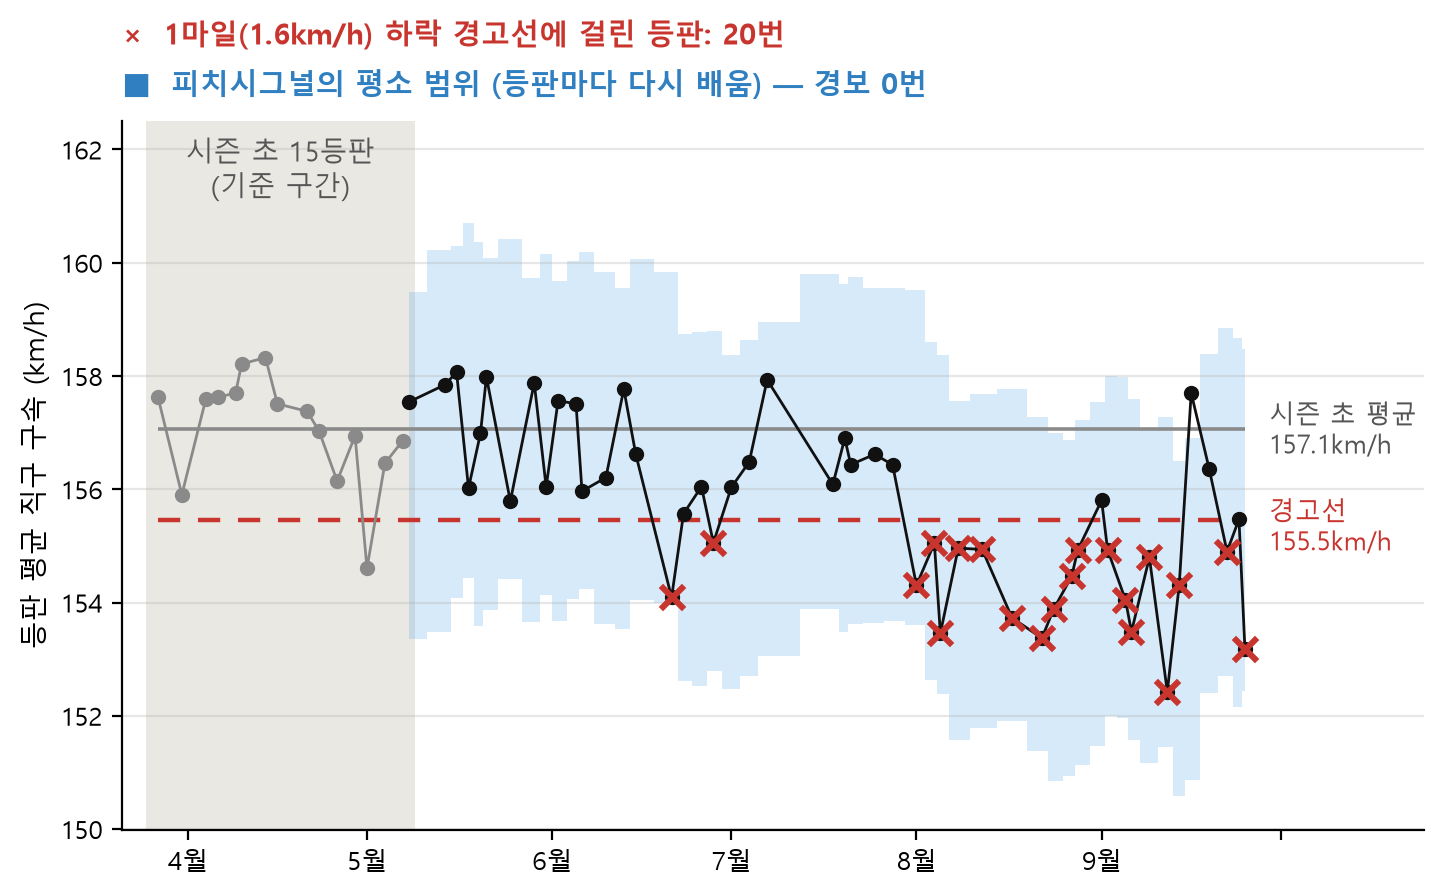
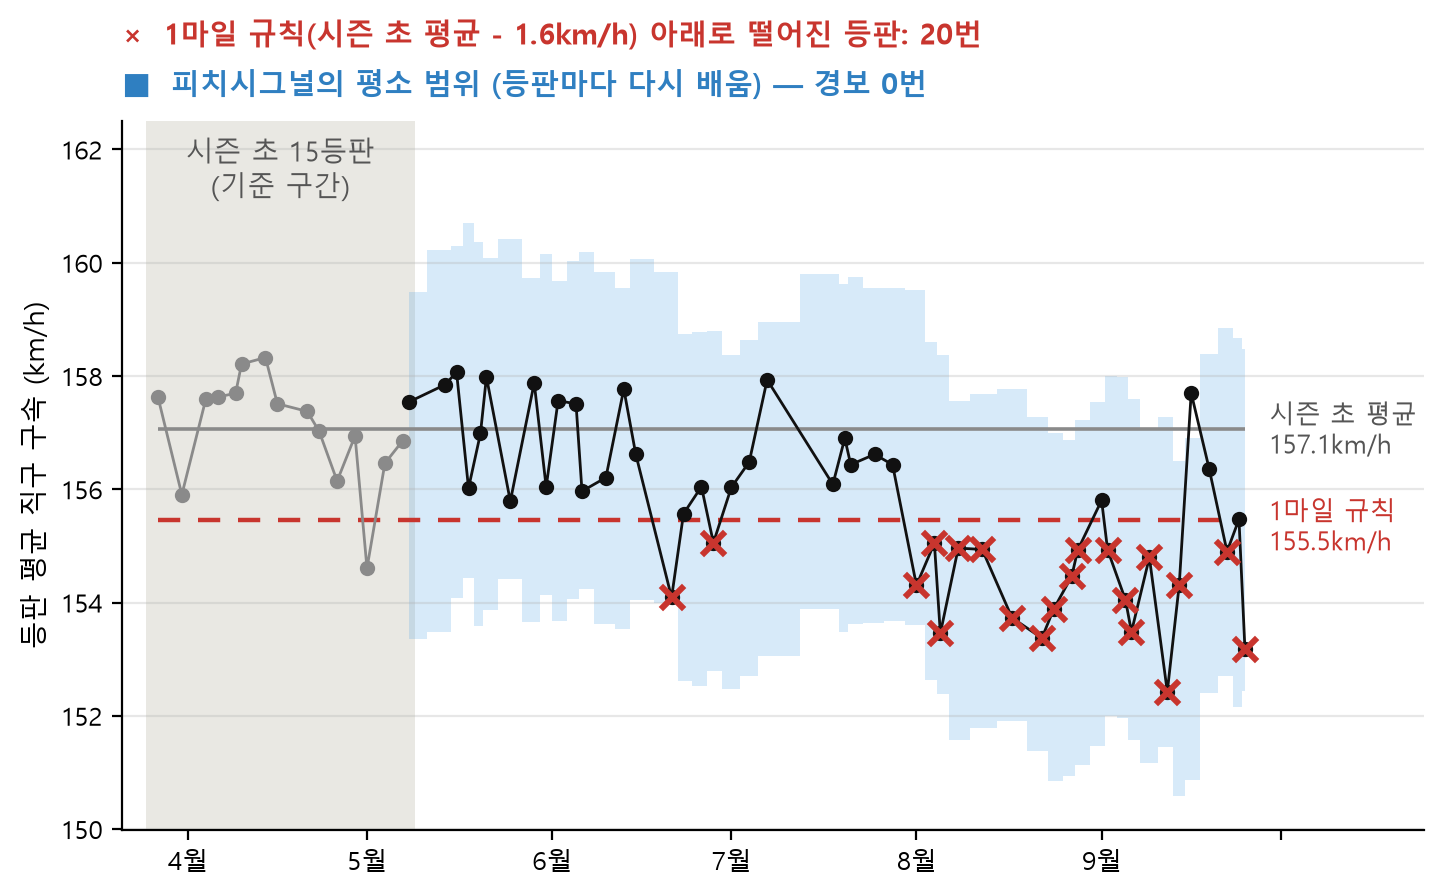
발표자료 2차 수정: 규정의 한계(두 단계 기준·10명 그림), 이용자 문구, 원자료 그대로(엑셀 캡처·확대 표), 1마일 규칙과 다른 점 표, 오경보 허용-탐지 그래프와 카드 2장, 쓰임새 6줄, 2026 전국체전 달력 백업

Changed region(s): [[0.1558, 0.0, 0.6856, 0.0603], [0.8726, 0.543, 0.9661, 0.6034]]

diff --git a/tools/deck_revise_1024.py b/tools/deck_revise_1024.py
@@ -1,0 +1,199 @@
+"""발표자료 2차 수정 (2026-10-24, 사용자와 10장을 다시 본 뒤 한 번에 — 메모 C:/work/private/pitchsignal/발표_수정메모_2차.md).
+1차 수정과 영상 삽입이 끝난 제출물 파일을 그대로 열어 고친다 (영상·포함 글꼴은 python-pptx가 그대로 보존하고, 글꼴은 build_deck.finalize가 다시 포함).
+    python -m tools.deck_revise_1024 <입력.pptx> <출력.pptx>
+먼저 만들어 둘 그림: tools.deck_assets(false_alarm_case·people_row·opcurve), tools.deck_pitch_data(raw csv·raw_zoom·scatter) + 엑셀 캡처(raw_excel.png), 2026 전국체전 달력(tour_2026.png).
+"""
+from __future__ import annotations
+
+import sys
+
+from pptx import Presentation
+from pptx.enum.shapes import MSO_SHAPE
+from pptx.enum.text import MSO_ANCHOR, PP_ALIGN
+
+from tools import build_deck as bd
+from tools.deck_revise_1023 import card, drop, set_text, shape, title
+
+DECK, PRIVATE = bd.DECK, bd.PRIVATE / "deck"
+NAVY = bd.RGBColor(0x1F, 0x4E, 0x8C)
+
+
+def set_lines(sh, lines):
+    """문단마다 첫 조각 서식을 살려 글만 바꾼다 (문단 수는 lines에 맞춤)."""
+    tf = sh.text_frame
+    for p in tf.paragraphs[len(lines):]:
+        p._p.getparent().remove(p._p)
+    for p, t in zip(tf.paragraphs, lines):
+        for r in p.runs[1:]:
+            r._r.getparent().remove(r._r)
+        p.runs[0].text = t
+
+
+def _flat(slide, kind, x, y, w, h, color):
+    shp = slide.shapes.add_shape(kind, bd.Inches(x), bd.Inches(y), bd.Inches(w), bd.Inches(h))
+    shp.fill.solid(); shp.fill.fore_color.rgb = color; shp.line.fill.background(); shp.shadow.inherit = False
+    return shp
+
+
+def rule(slide, x, y, w, color=bd.SOFT):
+    _flat(slide, MSO_SHAPE.RECTANGLE, x, y, w, 0.012, color)
+
+
+def s1(s):
+    set_lines(shape(s, 7), ["고교부터 프로까지,", "투수의 누적 부하와 부상 위험 신호를 알려 줍니다"])     # '혹사'는 2쪽과 같이 쓰지 않음
+    set_text(shape(s, 11), "2026년 한 고교 투수가 29번 등판해 던진 공")
+
+
+def s2(s):
+    title(s, "규정의 한계")
+    drop(s, 6, 7, 8, 9, 10, 11, 12, 14, 15)
+    for x, head, body in ((0.6, "지금 규정 (대한야구소프트볼협회)", "하루 105구 · 공 수에 따라 의무 휴식 1~4일 · 3일 연속 등판 금지"),
+                          (6.78, "규정이 못 보는 것: 며칠에 걸쳐 쌓이는 양", "2026 전국체전 우승팀 투수 — 7일 동안 257구 (59→60→34→104구), 규정 위반 0")):
+        bd.picture(s, DECK / "box_wide.png", x, 1.62, 5.95, 1.62)
+        bd.text(s, x + 0.35, 1.8, 5.25, 1.26, [[bd.body(head, 15, bd.WHITE, True)], [bd.body(body, 13, bd.WHITE)]], anchor=MSO_ANCHOR.MIDDLE, line=1.2, after=4)
+    Y, W, cols = 3.5, 3.75, (0.6, 4.95, 9.3)
+    for x, n, head in zip(cols, ("01", "02", "03"), ("규정 위반 1건", "누적 부하 기준 두 단계", "2026 시즌에 적용하면")):
+        bd.circle(s, x, Y, 0.7, n, size=18)
+        bd.text(s, x + 0.85, Y, W - 0.85, 0.7, [[bd.body(head, 16, bd.INK, True)]], anchor=MSO_ANCHOR.MIDDLE)
+    for x in (4.42, 8.77):
+        _flat(s, MSO_SHAPE.RIGHT_ARROW, x, Y + 1.25, 0.45, 0.5, bd.RGBColor(0xBE, 0xE0, 0xF8))
+    x = cols[0]
+    bd.text(s, x, Y + 0.95, W, 1.4, [[bd.body("2026 시즌 전국 고교 공식 경기 991경기 · 7,078등판", 12.5, bd.INK)],
+                                     [bd.body("기록을 규정(105구 · 의무 휴식 · 3일 연속)에 맞춰 계산한 결과", 12, bd.MUTED)]], line=1.2, after=4)
+    x = cols[1]
+    for i, (lv, color, rule_t, img, who) in enumerate((("주의", bd.BLUE, "7일 120구 · 3일 내 두 경기 70구", "people_2of10.png", "2025 시즌 투수 10명 중 2명이 넘은 선"),
+                                                        ("높음", NAVY, "7일 150구 · 3일 내 두 경기 100구", "people_1of10.png", "10명 중 1명만 넘은 선"))):
+        y = Y + 0.95 + i * 0.85
+        bd.text(s, x, y, W, 0.3, [[bd.body(lv, 13, color, True), bd.body("  " + rule_t, 12.5, bd.INK)]])
+        bd.picture(s, DECK / img, x, y + 0.36, 2.2, 0.26)
+        bd.text(s, x + 2.3, y + 0.33, W - 2.3, 0.32, [[bd.body(who, 10.5, bd.MUTED)]], anchor=MSO_ANCHOR.MIDDLE)
+    bd.text(s, x, Y + 2.7, W, 0.3, [[bd.body("기준은 2025 시즌 전국 고교 투구량으로 정해 2026에 적용", 10.5, bd.MUTED)]])
+    x = cols[2]
+    bd.text(s, x, Y + 0.9, 1.9, 0.9, [[("155", bd.BRUSH, 40, bd.BLUE), ("명", bd.TITLE, 22, bd.BLUE)]], anchor=MSO_ANCHOR.MIDDLE)
+    bd.text(s, x + 1.95, Y + 0.95, W - 1.95, 0.85, [[bd.body("규정 위반 없이 '높음'", 14, bd.INK, True)], [bd.body("주의까지 272명", 13, bd.INK)]], anchor=MSO_ANCHOR.MIDDLE, line=1.2)
+    bd.text(s, x, Y + 1.95, W, 0.6, [[bd.body("규정이 보지 못하는 누적 부하", 12.5, bd.MUTED)], [bd.body("따로 살펴봐야 할 투수", 12.5, bd.MUTED)]], line=1.2)
+    bd.text(s, 0.6, 6.85, 12.2, 0.4, [[bd.body("자료: 대한야구소프트볼협회(KBSA) 기록실 — 2026 전국 고교 공식 경기 991경기 · 2025 시즌 투수 1,024명 (피치시그널 집계)", 11, bd.MUTED)]])
+
+
+def s3(s):
+    for sid, t in ((8, "경기별 볼 비율로 내 제구 흐름 확인 · 이닝별 투구로 경기 복기와 약점 파악"),
+                   (11, "오늘 누가 몇 구까지 던질 수 있는지 · 팀 투수 누적 부하 관리 · 상대 투수의 볼 비율과 이닝별 흐름을 작전에"),
+                   (14, "공식 기록에 없는 볼·스트라이크 비율과 경기 운영 능력 · 경기마다 제구가 얼마나 일정한지(기복) · 고교 시절 사용량 이력")):
+        sh = shape(s, sid); set_text(sh, t); sh.width = bd.Inches(4.5); sh.height = bd.Inches(0.95)
+        sh.text_frame.paragraphs[0].runs[0].font.size = bd.Pt(14)
+    for sid in (7, 10, 13):
+        shape(s, sid).width = bd.Inches(4.5)
+    sh = shape(s, 13); set_text(sh, "프로 구단 스카우터 · 대학 감독"); sh.text_frame.paragraphs[0].runs[0].font.size = bd.Pt(19)
+    pic = shape(s, 15)
+    ratio = pic.height / pic.width
+    pic.left, pic.top, pic.width = bd.Inches(6.65), bd.Inches(1.75), bd.Inches(6.3)
+    pic.height = int(pic.width * ratio)
+
+
+def s4(s):
+    set_text(shape(s, 13), "읽은 공 수가 공식 투구 수와 맞은 등판 비율 (2026, 40구 이상)")
+    set_text(shape(s, 16), "중계 영상의 공 5,348개 볼카운트와 비교한 볼 비율 차이, 평균 (2025)")
+    for sid in (10, 13, 16):
+        sh = shape(s, sid); sh.height = bd.Inches(0.6); sh.text_frame.paragraphs[0].runs[0].font.size = bd.Pt(12.5)
+
+
+def video_caption(s, t):
+    bd.text(s, 4.2, 0.3, 4.93, 0.3, [[bd.body(t, 10, bd.MUTED)]], align=PP_ALIGN.CENTER)
+
+
+def s6(s):
+    drop(s, 5, 10)                                        # X 붓자국('없다'로 읽힘)과 가공한 표 그림
+    set_lines(shape(s, 9), ["고교 기록은 투구 수와 볼·스트라이크까지", "프로 구장은 공 하나하나의 구속과 폼까지 추적합니다"])
+    bd.picture(s, bd.framed("raw_excel", PRIVATE / "raw_excel.png", private=True), 0.45, 1.8, 8.0)
+    sc = bd.framed("pitch_scatter", DECK / "pitch_scatter.png")
+    bd.picture(s, sc, 8.75, 1.8, 4.15)
+    bd.picture(s, bd.framed("raw_zoom", PRIVATE / "raw_zoom.png", angle=-1.5, private=True), 2.3, 4.95, 6.0)
+    bd.text(s, 8.75, 1.8 + bd.fit(sc, 4.15) + 0.1, 4.15, 0.8, [[bd.body("Baseball Savant(MLB 공개 투구 기록)에서 내려받은 원자료 그대로", 10, bd.SOFT)],
+                                                                [bd.body("Michael Soroka · 2025년 7월 4일 등판 92구 × 항목 119개", 10, bd.SOFT)]], line=1.2)
+
+
+def s7(s):
+    drop(s, 6, 9, 10, 11, 12, 13, 14, 15, 16, 17, 18)
+    bd.picture(s, bd.framed("false_alarm_case", DECK / "false_alarm_case.png"), 0.35, 1.6, 7.35)
+    set_text(shape(s, 7), "부상 없던 Juan Mejia(2026, 불펜): 1마일 규칙 20번 → 피치시그널 0번")
+    X = 7.95
+    for y, num, unit, head, desc in ((2.15, "7", "%", "선수끼리 비교", "구속·체중·나이로는 팔꿈치 수술의 7%만 설명"),
+                                     (2.95, "5", "등판", "나와 비교", "부상 직전 5등판에 본인 구속 하락 (팔꿈치 78명 · 어깨 27명 연구)")):
+        bd.text(s, X, y, 1.3, 0.72, [[(num, bd.BRUSH, 30, bd.BLUE), (unit, bd.TITLE, 15, bd.BLUE)]], anchor=MSO_ANCHOR.MIDDLE)
+        bd.text(s, X + 1.35, y, 3.55, 0.72, [[bd.body(head + " — ", 12.5, bd.INK, True), bd.body(desc, 12.5, bd.INK)]], anchor=MSO_ANCHOR.MIDDLE, line=1.15)
+    bd.text(s, X, 3.85, 4.9, 0.5, [[("1마일 규칙과 다른 점", bd.TITLE, 20, bd.INK)]])
+    cx, cw, y = (X, X + 1.35, X + 3.0), (1.3, 1.6, 1.9), 4.4
+    for j, (t, c) in enumerate((("", bd.INK), ("1마일 규칙", bd.INK), ("피치시그널", bd.BLUE))):
+        bd.text(s, cx[j], y, cw[j], 0.35, [[bd.body(t, 12.5, c, True)]], anchor=MSO_ANCHOR.MIDDLE)
+    rule(s, X, y + 0.36, 4.9, bd.INK)
+    y += 0.4
+    for row in (("평소", "시즌 초 평균에 고정", "등판마다 새로 계산"), ("공이 적은 등판", "똑같이 판단", "공이 적을수록 덜 반영"), ("보는 범위", "그 등판 하나", "최근 등판을 함께")):
+        for j, t in enumerate(row):
+            bd.text(s, cx[j], y, cw[j], 0.42, [[bd.body(t, 11.5, bd.INK, j == 0)]], anchor=MSO_ANCHOR.MIDDLE)
+        y += 0.42
+        rule(s, X, y - 0.02, 4.9)
+    bd.text(s, X, y + 0.08, 4.9, 0.62, [[bd.body("→ 다치지 않은 투수에게는 100등판에 1번 울리도록 맞춤 — 2021~2023 시즌으로 맞추고, 다른 시즌에서 확인 (9쪽)", 11.5, bd.INK)]], line=1.2)
+    bd.text(s, 0.6, 6.85, 12.2, 0.5, [[bd.body("1마일 규칙: FanGraphs(Petti, 2013) — 전해 4월보다 1마일(1.6km/h) 이상 떨어진 투수의 팔 부상률 11% vs 4%. 여기서는 시즌 초 평균에 적용 · 자료: MLB 2021~2026 공개 투구 기록", 9.5, bd.MUTED)]])
+
+
+def s9(s):
+    title(s, "경보는 설계한 만큼만 울리고, 울린 뒤엔 부상이 2배")
+    shape(s, 5).text_frame.paragraphs[0].runs[0].font.size = bd.Pt(36)
+    drop(s, *range(6, 28))
+    bd.picture(s, bd.framed("opcurve_deck", DECK / "opcurve_deck.png"), 0.35, 1.7, 7.35)
+    X = 7.95
+    card(s, X - 0.1, 1.9, 5.0, 1.8, "0.85", "번", "100등판당 오경보 횟수\n다치지 않은 투수 · 설계값 1번\n실제 0.85번 · 2026 시즌 0.78번\n1마일 규칙은 6.7번", num_w=1.75, label_size=12, num_size=34)
+    card(s, X - 0.1, 3.95, 5.0, 1.8, "2", "배", "경보 뒤 30일 안 팔 부상 IL\n경보 울렸을 때 10.5%\n안 울렸을 때 4.8%\n2026 시즌도 2.0배", num_w=1.75, label_size=12, num_size=34)
+    bd.text(s, 0.6, 6.85, 12.2, 0.4, [[bd.body("2024~2025 시즌 결과 (2026 시즌은 봉인해 두었다가 10월 7일 한 번 계산) · MLB 투수-시즌 3,040개 · 팔 부상으로 IL에 오른 투수를 같은 시점의 건강한 투수 2명씩과 짝지어 비교", 11, bd.MUTED)]])
+
+
+def s10(s):
+    title(s, "피치시그널은 이렇게 쓰입니다")
+    drop(s, *range(15, 35))
+    rows = (("대회 운영본부", "운영본부와 각 팀이 같은 화면으로 규정 위반과 누적 부하 확인 · 전국체전·주말리그·전국대회, 대학·중학·리틀야구 대회에도"),
+            ("협회 · 연맹", "기록지 사진만으로 공식 기록에 볼·스트라이크 추가 · 며칠 단위 누적 기준의 근거"),
+            ("고교 · 아마추어 지도자", "오늘 누가 몇 구까지 · 팀 투수 누적 부하 관리 · 상대 투수 분석을 작전에"),
+            ("고교 · 아마추어 선수", "경기 복기 · 제구 흐름과 약점 · 진학·드래프트용 시즌 기록"),
+            ("스카우터 · 대학 감독", "고교 투수의 제구·사용량 이력 · 외국인 투수 영입 전 점검"),
+            ("프로 구단 분석팀", "구단 추적 데이터로 구속·폼 경보 · 불펜 운영"))
+    y = 1.7
+    for name, desc in rows:
+        bd.picture(s, DECK / "box_small.png", 0.55, y + 0.1, 2.35, 0.55)
+        bd.text(s, 0.7, y + 0.15, 2.1, 0.45, [[bd.body(name, 13, bd.WHITE, True)]], anchor=MSO_ANCHOR.MIDDLE, align=PP_ALIGN.CENTER)
+        bd.text(s, 3.1, y, 6.3, 0.76, [[bd.body(desc, 13, bd.INK)]], anchor=MSO_ANCHOR.MIDDLE, line=1.15)
+        y += 0.86
+    bd.picture(s, DECK / "qr.png", 10.55, 2.0, 1.7, 1.7)
+    bd.text(s, 9.7, 3.85, 3.4, 0.9, [[bd.body("robinkim0221.github.io/pitch-signal", 11.5, bd.INK)], [bd.body("김형준 · UNIST · robin1967@unist.ac.kr", 11, bd.MUTED)]], align=PP_ALIGN.CENTER, line=1.3)
+    bd.text(s, 9.7, 5.0, 3.4, 0.7, [[("감사합니다", bd.TITLE, 26, bd.INK)]], align=PP_ALIGN.CENTER)
+
+
+def s13(s):
+    """백업 달력을 본문과 같은 2026 전국체전으로 (2쪽 '7일 257구' 예시의 근거)."""
+    title(s, "백업 · 2026 전국체전 등판 달력")
+    drop(s, *[sh.shape_id for sh in s.shapes if sh.shape_type == 13 and sh.shape_id > 2])
+    img = bd.framed("tour_2026", DECK / "tour_2026.png")
+    w = 10.5; h = bd.fit(img, w)
+    bd.picture(s, img, (bd.SW - w) / 2, 1.6 + max(0, (5.6 - h) / 2), w)
+
+
+def main(src: str, out: str) -> None:
+    prs = Presentation(src)
+    sl = list(prs.slides)
+    s1(sl[0]); s2(sl[1]); s3(sl[2]); s4(sl[3])
+    video_caption(sl[4], "시연 1 · 고교 야구 — 2026 전국 고교 시즌 (영상)")
+    s6(sl[5]); s7(sl[6])
+    video_caption(sl[7], "시연 2 · MLB·KBO — 투수 시즌 화면과 팀 불펜 현황판 (영상)")
+    s9(sl[8]); s10(sl[9]); s13(sl[12])
+    for s in sl:
+        for sh in s.shapes:                               # 한글을 단어 단위로 줄바꿈 (1차 수정과 같음)
+            if sh.has_text_frame:
+                for p in sh.text_frame.paragraphs:
+                    p._p.get_or_add_pPr().set("eaLnBrk", "0")
+                    for run in p.runs:
+                        run._r.get_or_add_rPr().set("lang", "ko-KR")
+    prs.save(out)
+    print("저장:", out)
+
+
+if __name__ == "__main__":
+    main(sys.argv[1], sys.argv[2])

diff --git a/tools/deck_assets.py b/tools/deck_assets.py
@@ -214,7 +214,7 @@ def false_alarm_case(path: Path, pid: str = "675848_2026") -> dict:
     # 이후 등판
     ax.fill_between(x, lo, hi, color="#4BA3E6", alpha=0.22, lw=0, step="mid", zorder=1)
     ax.hlines(line, bx[0], x[-1], color=RED, linestyles=(0, (5, 4)), lw=1.6, zorder=2)
-    ax.text(x[-1] + pd.Timedelta(days=4), line - 0.1, f"경고선\n{line:.1f}km/h", ha="left", va="center", fontsize=9.5, color=RED, linespacing=1.2)
+    ax.text(x[-1] + pd.Timedelta(days=4), line - 0.1, f"1마일 규칙\n{line:.1f}km/h", ha="left", va="center", fontsize=9.5, color=RED, linespacing=1.2)
     ax.plot(x, v, color="#111", lw=1.0, marker="o", ms=4.5, zorder=3)
     ax.scatter([xi for xi, f in zip(x, fired) if f], [vi for vi, f in zip(v, fired) if f], marker="x", s=70, color=RED, lw=2.2, zorder=4)
     ax.set_ylim(min(min(lo), min(v)) - 0.6, 162.5)
@@ -226,12 +226,63 @@ def false_alarm_case(path: Path, pid: str = "675848_2026") -> dict:
     ax.set_xlim(bx[0] - pd.Timedelta(days=6), x[-1] + pd.Timedelta(days=30))   # 오른쪽 여백에 선 이름
     last = mdates.date2num(x[-1])
     ax.xaxis.set_major_formatter(mticker.FuncFormatter(lambda val, _: f"{mdates.num2date(val).month}월" if val <= last + 5 else ""))
-    ax.text(0.0, 1.10, f"×  1마일(1.6km/h) 하락 경고선에 걸린 등판: {sum(fired)}번", color=RED, fontsize=10.5, fontweight="bold", transform=ax.transAxes, va="bottom")
+    ax.text(0.0, 1.10, f"×  1마일 규칙(시즌 초 평균 - 1.6km/h) 아래로 떨어진 등판: {sum(fired)}번", color=RED, fontsize=10.5, fontweight="bold", transform=ax.transAxes, va="bottom")   # 2026-10-24 이름 '1마일 규칙'으로 통일
     ax.text(0.0, 1.03, f"■  피치시그널의 평소 범위 (등판마다 다시 배움) — 경보 {ours}번", color=BLUE_T, fontsize=10.5, fontweight="bold", transform=ax.transAxes, va="bottom")
     fig.savefig(path, bbox_inches="tight", facecolor="white")
     plt.close(fig)
     return {"name": d["name"], "season": d["season"], "role": d["role"], "baseline": len(b), "baseline_fb": sum(o["n_fb"] for o in b),
             "baseline_dates": (b[0]["date"], b[-1]["date"]), "avg_kmh": round(avg, 1), "outings": len(mon), "rule": sum(fired), "ours": ours}
+
+def people_row(path: Path, k: int, n: int = 10, color=BLUE) -> None:
+    """2페이지 '10명 중 k명' 그림 (2026-10-24 사용자: 상위 5%·20% 대신 사람 수로): 사람 n명 중 앞 k명만 색칠, 나머지 회색. 투명 바탕."""
+    s, gap = 96, 14
+    im = Image.new("RGBA", (n * s + (n - 1) * gap, 130), (0, 0, 0, 0))
+    d = ImageDraw.Draw(im)
+    for i in range(n):
+        c = color + (255,) if i < k else (196, 196, 196, 255)
+        x = i * (s + gap)
+        d.ellipse((x + 28, 2, x + 68, 42), fill=c)
+        d.rounded_rectangle((x + 8, 50, x + 88, 128), radius=26, fill=c)
+    im.save(path)
+
+
+def opcurve(path: Path) -> None:
+    """9페이지 그래프 (2026-10-24): 오경보를 얼마나 허용하느냐에 따른 '부상 투수 중 미리 경보가 울린 비율'. 검증셋 운영 곡선(reports/tables/val_opcurve.csv)의
+    구속 하락 신호만 선으로, 1마일 규칙(B1, 고정 임계라 한 점)은 ×로. 오경보 허용 횟수를 올리면 더 잡고, 그 선택은 팀이 한다는 뜻."""
+    import matplotlib
+    matplotlib.use("Agg")
+    import matplotlib.pyplot as plt
+    import pandas as pd
+    d = pd.read_csv(ROOT / "reports" / "tables" / "val_opcurve.csv")
+    ours = d[d.method == "구속 하락 신호"].sort_values("false_alarms_per100")
+    b1 = d[(d.method == "B1 구속 1mph") & (d.scale == 1.0)].iloc[0]
+    plt.rcParams.update({"font.family": "Malgun Gothic", "axes.unicode_minus": False})
+    fig, ax = plt.subplots(figsize=(8.0, 4.7), dpi=200)
+    fig.patch.set_facecolor("white"); ax.set_facecolor("white")
+    BLUE_T, RED = "#2F7FC1", "#C8352E"
+    ax.plot(ours.false_alarms_per100, ours.detection, color=BLUE_T, lw=2.4, marker="o", ms=5.5, zorder=3)
+    base = ours[ours.scale == 1.0].iloc[0]
+    ax.plot(base.false_alarms_per100, base.detection, marker="o", ms=13, mfc="white", mec=BLUE_T, mew=2.4, zorder=4)
+    ax.annotate(f"기본 설정\n{base.false_alarms_per100:.2f}번 · {base.detection:.0f}%", (base.false_alarms_per100, base.detection), xytext=(0.95, 17.5),
+                fontsize=10, color=BLUE_T, fontweight="bold", linespacing=1.3)
+    for sc, dx, dy in ((0.7, 0.2, -4.5), (0.5, -0.9, 3.5)):
+        r = ours[ours.scale == sc].iloc[0]
+        ax.text(r.false_alarms_per100 + dx, r.detection + dy, f"{r.false_alarms_per100:.1f}번 · {r.detection:.0f}%", fontsize=9.5, color=BLUE_T)
+    ax.scatter([b1.false_alarms_per100], [b1.detection], marker="x", s=130, color=RED, lw=2.6, zorder=4)
+    ax.annotate(f"1마일 규칙 (한 점뿐)\n{b1.false_alarms_per100:.1f}번 · {b1.detection:.0f}%", (b1.false_alarms_per100, b1.detection), xytext=(b1.false_alarms_per100 - 1.1, b1.detection - 11),
+                fontsize=10, color=RED, fontweight="bold", linespacing=1.3)
+    ax.set_xlim(-0.15, 8.0); ax.set_ylim(0, 44)
+    ax.set_xlabel("다치지 않은 투수 100등판당 오경보 (번)", fontsize=10.5)
+    ax.set_ylabel("부상 투수 중 미리 경보가 울린 비율 (%)", fontsize=10.5)
+    for s in ("top", "right"):
+        ax.spines[s].set_visible(False)
+    ax.tick_params(labelsize=9); ax.grid(alpha=0.3)
+    ax.text(0.0, 1.04, "오경보를 얼마나 허용할지 정하면 잡는 비율이 정해진다 — 피치시그널은 선 위 어디든 고를 수 있다", color="#111", fontsize=10.5, fontweight="bold",
+            transform=ax.transAxes, va="bottom")
+    ax.text(0.0, -0.2, "MLB 2024~2025 검증셋 · 부상 직전 5등판 안에 경보가 울린 비율", color="#666", fontsize=9, transform=ax.transAxes, va="top")
+    fig.savefig(path, bbox_inches="tight", facecolor="white")
+    plt.close(fig)
+
 
 def main() -> None:
     OUT.mkdir(parents=True, exist_ok=True)
@@ -246,6 +297,8 @@ def main() -> None:
     stripes(OUT / "stripes.png")
     usual_band(OUT / "usual_band.png")
     print(false_alarm_case(OUT / "false_alarm_case.png"))
+    people_row(OUT / "people_2of10.png", 2); people_row(OUT / "people_1of10.png", 1, color=(31, 78, 140))
+    opcurve(OUT / "opcurve_deck.png")
     print("저장:", OUT)
 
 

diff --git a/tools/deck_pitch_data.py b/tools/deck_pitch_data.py
@@ -6,6 +6,7 @@
 from __future__ import annotations
 
 import glob
+from pathlib import Path
 
 import matplotlib
 matplotlib.use("Agg")
@@ -75,7 +76,64 @@ def draw(path) -> None:
     plt.close(fig)
 
 
+PRIVATE = Path("C:/work/private/pitchsignal/시안/deck")           # 원자료 행을 그대로 보이는 그림은 저장소 밖
+RAW_COLS = ["game_date", "player_name", "pitch_type", "release_speed", "release_pos_x", "release_pos_z", "release_spin_rate", "arm_angle", "description"]
+
+
+def raw_csv(path) -> int:
+    """A용: 그 등판의 원자료 행(견제 제외 92구)을 열 119개 그대로 csv로 — 엑셀로 열어 화면을 찍는다 (scratch의 excel_shot.ps1)."""
+    s = load()
+    s.to_csv(path, index=False, encoding="utf-8-sig")          # BOM이 없으면 엑셀이 선수 이름의 악센트 글자를 깨뜨림
+    return len(s)
+
+
+def raw_zoom(path) -> None:
+    """B용: 원자료 핵심 열 9개를 영어 열 이름·원래 단위(mph, ft) 그대로 확대한 표, 공 1~10 (2026-10-24 사용자: 가공 없이 raw 그대로)."""
+    s = load().head(10)
+    plt.rcParams.update({"font.family": "Consolas", "axes.unicode_minus": False})
+    fig = plt.figure(figsize=(10.2, 3.4), dpi=200); fig.patch.set_facecolor("white")
+    ax = fig.add_axes([0.02, 0.03, 0.96, 0.82]); ax.axis("off")
+    xs = [0.0, 0.115, 0.265, 0.345, 0.45, 0.555, 0.66, 0.79, 0.875]
+    for x, h in zip(xs, RAW_COLS):
+        ax.text(x, 0.98, h, fontsize=9.2, fontweight="bold", color="#111", va="top", transform=ax.transAxes)
+    ax.plot([-0.01, 1.03], [0.88, 0.88], color="#111", lw=1.2, transform=ax.transAxes, clip_on=False)
+    for k, (_, r) in enumerate(s.iterrows()):
+        y = 0.82 - k * 0.082
+        if k % 2 == 0:
+            ax.add_patch(plt.Rectangle((-0.01, y - 0.048), 1.04, 0.082, color="#f2f4f7", transform=ax.transAxes, zorder=0, lw=0))
+        for x, c in zip(xs, RAW_COLS):
+            v = r[c]
+            ax.text(x, y, f"{v:g}" if isinstance(v, float) else str(v)[:10 if c == "game_date" else None], fontsize=9.8, color="#111", va="center", transform=ax.transAxes)
+    fig.text(0.02, 0.93, "원자료 핵심 열 확대 — 열 이름과 단위(mph, ft) 그대로", fontsize=10, color="#555", fontfamily="Malgun Gothic")
+    fig.savefig(path, facecolor="white")
+    plt.close(fig)
+
+
+def scatter(path) -> None:
+    """오른쪽 점 그림만 따로 (6페이지에서 원자료 캡처 옆에 둔다)."""
+    s = load()
+    plt.rcParams.update({"font.family": "Malgun Gothic", "axes.unicode_minus": False})
+    fig, bx = plt.subplots(figsize=(4.6, 4.9), dpi=200)
+    fig.patch.set_facecolor("white")
+    for pt, g in s.groupby("pitch_type"):
+        bx.scatter(g.release_pos_x * 0.3048, g.release_pos_z * 0.3048, s=26, color=COLOR.get(pt, "#888"), alpha=0.85, label=f"{TYPE.get(pt, pt)} {len(g)}", edgecolor="white", lw=0.4)
+    bx.set_title(f"그날 {len(s)}구의 릴리스 위치 (포수 쪽에서 봄)", fontsize=11, loc="left", fontweight="bold")
+    bx.set_xlabel("옆 위치 (m)", fontsize=10); bx.set_ylabel("높이 (m)", fontsize=10)
+    bx.set_xlim(-1.25, -0.45); bx.set_ylim(1.45, 2.05)
+    bx.tick_params(labelsize=9)
+    for sp in ("top", "right"):
+        bx.spines[sp].set_visible(False)
+    bx.grid(alpha=0.3)
+    bx.legend(fontsize=9, frameon=False, loc="lower right")
+    fig.savefig(path, bbox_inches="tight", facecolor="white")
+    plt.close(fig)
+
+
 if __name__ == "__main__":
     out = A.OUT / "pitch_data.png"
     draw(out)
-    print("저장:", out)
+    PRIVATE.mkdir(parents=True, exist_ok=True)
+    print("원자료 행:", raw_csv(PRIVATE / "soroka_20250704_raw.csv"))
+    raw_zoom(PRIVATE / "raw_zoom.png")
+    scatter(A.OUT / "pitch_scatter.png")
+    print("저장:", out, PRIVATE)
